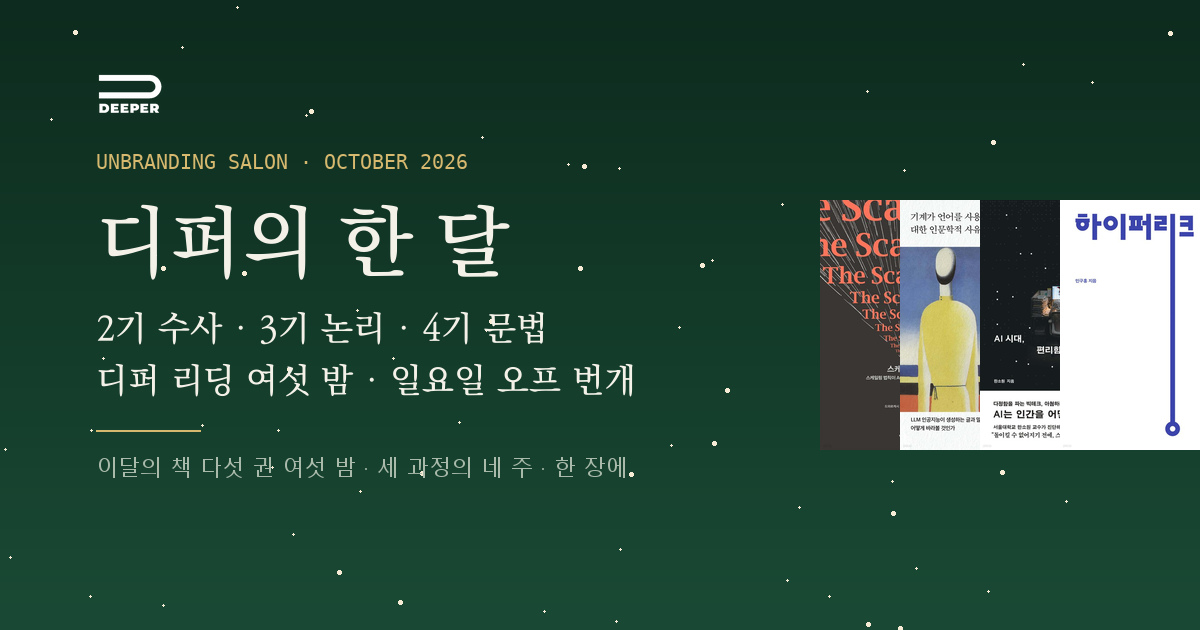
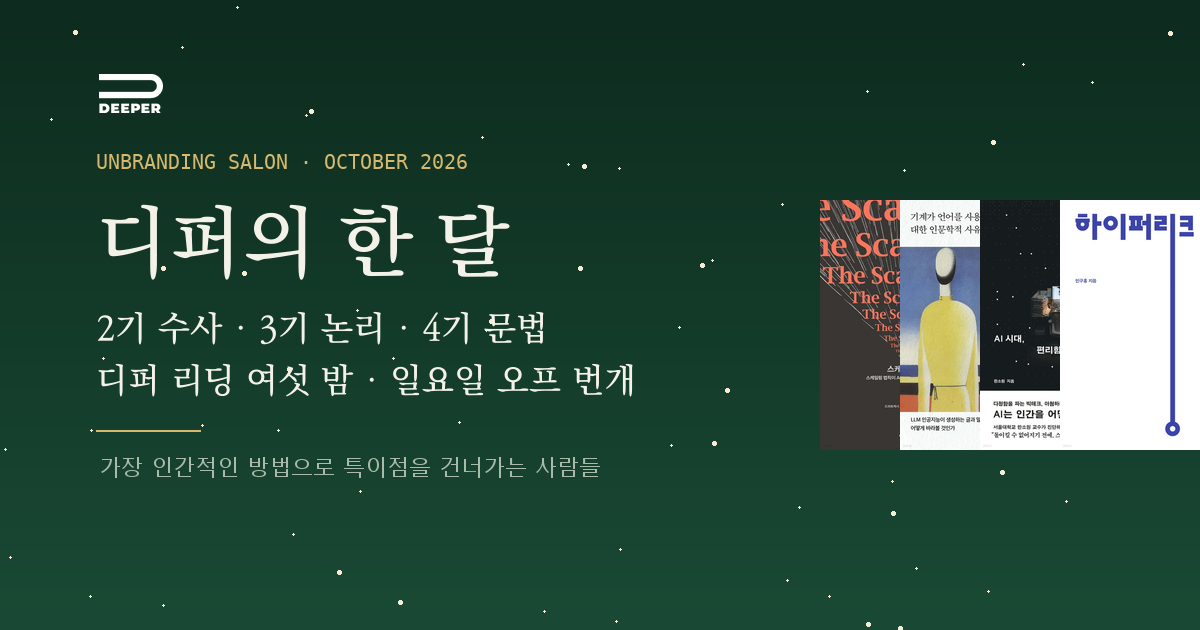
[calendar] 10월 시각물 재작업 셋 — 폼 카드 겹침 해소·로고 정본 합성·슬로건 한 줄
피터팬 시각 검수(2026-09-20) 「오늘 밤 안에 끝나는 것 셋」 반영.

- form_card_2026-10.png: 1080x1500 -> 1080x1620. 일곱 줄 겹침 0,
  오프 번개 제목 노출, 푸터(공휴일·DEEPER 라벨) 여백 45px 확보.
  배너·글꼴·색·구도는 그대로.
- og_2026-10.png / month_grid_2026-10.png: 로고를 정본
  DEEPER_logo_white.png 알파 합성으로 교체(비율 1.6425 기준 ±0.3%).
  나머지 픽셀 불변.
- og 맨 아랫줄 목차 -> 슬로건 「가장 인간적인 방법으로 특이점을 건너가는 사람들」.
- deeper_calendar_2026-10.html 푸터에 같은 슬로건 한 줄(니체 인용 아래).

발행인 결정 넷(콤포 보라 환원·푸터 순서·책 표지 존폐·번개 색)은 건드리지 않았다.

Changed region(s): [[0.0617, 0.7238, 0.5242, 0.754], [0.0925, 0.1206, 0.1542, 0.181]]

diff --git a/deeper_calendar_2026-10.html b/deeper_calendar_2026-10.html
@@ -102,6 +102,7 @@
   footer{text-align:center;margin-top:36px;padding-top:26px;border-top:1px solid var(--line);}
   footer .quote{font-size:12.5px;color:var(--ink-soft);}
   footer .team{margin-top:10px;font-size:11.5px;color:var(--gray);letter-spacing:.1em;font-family:"DM Mono",monospace;}
+  footer .slogan{margin-top:26px;font-size:16px;color:var(--green-deep);letter-spacing:.02em;line-height:1.8;}
   footer .finis{margin-top:34px;font-size:15px;color:var(--green-deep);letter-spacing:.04em;line-height:1.9;}
   footer .finis em{font-family:"Cormorant Garamond","EB Garamond",Georgia,serif;font-style:italic;font-size:22px;color:var(--gold);}
   footer .finis span{font-size:12px;color:var(--gray);}
@@ -403,6 +404,7 @@
   <footer>
     <p class="quote">"춤추는 별을 낳으려면 내면에 혼돈을 지녀야 한다."</p>
     <p class="team">NIETZSCHE · DEEPER · 2026. 10</p>
+    <p class="slogan">가장 인간적인 방법으로 특이점을 건너가는 사람들</p>
     <p class="finis"><em>Per aspera ad astra.</em><br><span>돌길을 걸어 별들에게로 — 세네카 『광란의 헤르쿨레스』에서 온 라틴 경구</span></p>
   </footer>
 
